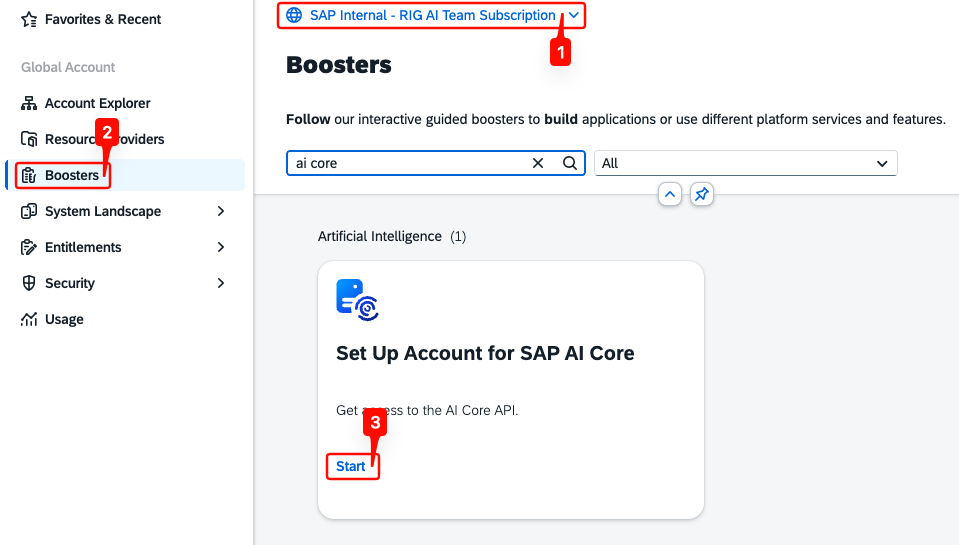
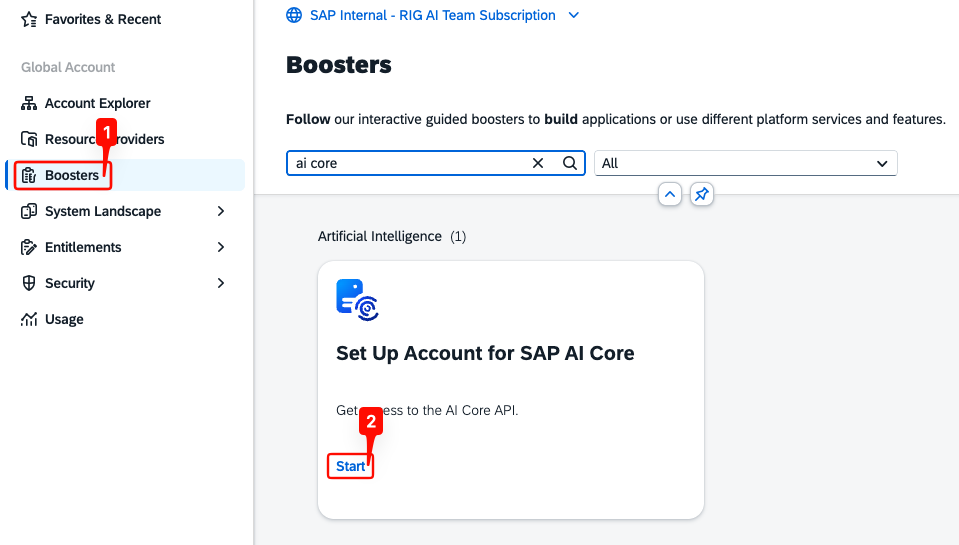
Update documents

Changed region(s): [[0.2722, 0.0, 0.635, 0.1248], [0.0, 0.2183, 0.121, 0.3743], [0.3326, 0.7486, 0.4234, 0.9046]]

diff --git a/docs/SAP-Joule-for-Consultants-Custom-Knowledge/1-introduction/1.2-recommendations.md b/docs/SAP-Joule-for-Consultants-Custom-Knowledge/1-introduction/1.2-recommendations.md
@@ -1,0 +1,25 @@
+## Start with Object Store
+
+Custom Knowledge Grounding can read from any of the [supported data repositories](https://help.sap.com/docs/sap-ai-core/generative-ai/grounding-035c455a5a424697b60f4a24b6d791fe#data-repositories). For the **initial setup**, Object Store is the recommended choice:
+
+- **Fast activation** — the Object Store instance is provisioned by a booster and ready in minutes. SharePoint, customer-managed S3, and Work Zone setups often take longer than anticipated because of onboarding complications, approval, and security processes.
+- **Very low cost** — Object Store charges are small. Even when run for a few months until the target data repository is ready, the extra cost is negligible — see [Pricing](https://discovery-center.cloud.sap/serviceCatalog/object-store?service_plan=standard&region=all&commercialModel=btpea&tab=service_plan).
+- **Reversible** — once the target data repository is online and indexed, point Custom Knowledge Grounding at the new pipeline and decommission the Object Store instance.
+
+The key advantage is that Custom Knowledge Grounding can be live in SAP Joule for Consultants while the longer-running setup of your target data repository runs in parallel — instead of blocking the entire rollout on it.
+
+> **Note:** The Object Store instance must be provisioned in an AWS-based subaccount, since AI Core Document Grounding consumes it through the AWS S3 API.
+
+> **Note:** Source citations from Object Store-indexed documents are not clickable — they show the document name and page reference, but the link does not resolve to the original file. Answers themselves are generated the same way as with any other data repository.
+
+## Skip Object Store If the Credentials Are Available
+
+Going straight to your target data repository is the better choice when you already hold the credentials required by AI Core Document Grounding — for example, for a SharePoint site, an S3 bucket, or a Work Zone with Document Grounding enabled — and have completed an AI Core Document Grounding setup before. In that case, you can skip the **Data Repositories** phase and start directly with the **AI Core Document Grounding** phase.
+
+## Subaccount Layout and Existing Instances
+
+The four moving parts — **Object Store** (or any other data repository), **SAP AI Core**, **Destination Service**, and **SAP Joule for Consultants** — communicate through service-key credentials, which allows for very flexible placement: they can all sit in the same subaccount, in different subaccounts, or even in different global accounts.
+
+- **Reuse existing instances** where available. If your organization already runs SAP AI Core (with the `extended` plan) or SAP AI Launchpad in another subaccount, you can reuse them instead of provisioning new instances.
+- The **Destination Service** can be deployed in the SAP Joule for Consultants subaccount or in the AI Core subaccount. In general, it is recommended to place it in the same subaccount as the consuming application—in this case, the SAP Joule for Consultants subaccount.
+- The **Object Store** must live in an AWS-based subaccount (see above). The SAP Joule for Consultants subaccount is a convenient option, since it runs on AWS data centers.

diff --git a/docs/SAP-Joule-for-Consultants-Custom-Knowledge/3-ai-core-document-grounding/3.3-ai-core-document-grounding-bruno.md b/docs/SAP-Joule-for-Consultants-Custom-Knowledge/3-ai-core-document-grounding/3.3-ai-core-document-grounding-bruno.md
@@ -76,6 +76,24 @@ The generic secret stores the S3 credentials inside AI Core so that the document
 
 The pipeline binds the generic secret to a document grounding job. Once created, AI Core ingests, chunks, embeds, and indexes every document in the bucket.
 
+> **Note:** The full pipeline API is documented in [Create a Document Grounding Pipeline Using the Pipelines API | SAP Help Portal](https://help.sap.com/docs/sap-ai-core/generative-ai/create-document-grounding-pipeline-using-pipelines-api-d32b1465461149749b00129c02e05142). There you can find information on how to restrict processing to specific folders, include metadata, and configure the update schedule.
+
+A request body that limits indexing to a folder inside the bucket looks like this:
+
+```json
+{
+  "type": "S3",
+  "configuration": {
+    "destination": "{{generic_secret}}",
+    "includePaths": [
+      "/j4c-custom-knowledge"
+    ]
+  }
+}
+```
+
+To run the example above, replace the body in the `create_pipeline` request with the snippet.
+
 - Open the `04_pipeline` folder and select `create_pipeline`.
 - Click **Send**. A `201 Created` response returns the `pipelineId`.
 

diff --git a/docs/SAP-Joule-for-Consultants-Custom-Knowledge/2-data-repositories/2.3-sharepoint.md b/docs/SAP-Joule-for-Consultants-Custom-Knowledge/2-data-repositories/2.3-sharepoint.md
@@ -85,3 +85,17 @@ The Bruno and AI Launchpad cards in the next phase consume the following SharePo
 - `MS_Entra_Application_ID` — **Application (client) ID** from the Overview tab.
 - `MS_Entra_Application_Client_Secret` — the secret value copied from **Certificates & secrets**.
 - `SharePoint_URL` — the full URL of the SharePoint site you granted permission on.
+
+## Troubleshooting
+
+The [Troubleshooting Document Grounding Pipelines | SAP Community](https://community.sap.com/t5/technology-blog-posts-by-sap/troubleshooting-document-grounding-pipelines/ba-p/14227725) blog walks setup failures down in three steps:
+
+- Step 1 — Validate access to the Document Grounding API.
+- Step 2 — Validate SharePoint credentials.
+- Step 3 — Validate pipeline configuration.
+
+Especially noteworthy are the checks for step 3:
+
+- **SharePoint site identifier.** Use the **identifier** from the site URL (e.g., `HR%20Team` for `https://contoso.sharepoint.com/sites/HR%20Team`), not the human-readable site title. Mind the URL encoding.
+- **Include paths.** Match the URL path of the folder you want to ground on, relative to the document library — `/teched`, not `/Shared%20Documents/teched`.
+- **Pipeline created but no documents.** Almost always means the include path is too narrow. Test with no include path first; once replication works, narrow it down.

diff --git a/docs/SAP-Joule-for-Consultants-Custom-Knowledge/3-ai-core-document-grounding/3.2-ai-core-instance.md b/docs/SAP-Joule-for-Consultants-Custom-Knowledge/3-ai-core-document-grounding/3.2-ai-core-instance.md
@@ -1,3 +1,14 @@
+## Verify the AI Core Entitlement
+
+Before running the booster, confirm that the `extended` plan of SAP AI Core is assigned to your global account and added to the target subaccount. The booster will fail if the entitlement is missing at the global account level.
+
+- At the global account level, open **Entitlements** → **Service Assignments**.
+- Search for `SAP AI Core` and confirm the `extended` plan is assigned.
+
+<p align="center">
+  <img src="images/ai-core-entitlement.png" width="80%">
+</p>
+
 ## Launch the AI Core Booster
 
 We shall now execute the AI Core Booster to provision SAP AI Core in your subaccount. The booster automates the entitlement assignment, instance creation, and service key generation for the `extended` plan required by AI Core Document Grounding.

diff --git a/docs/SAP-Joule-for-Consultants-Custom-Knowledge/1-introduction/1.1-overview.md b/docs/SAP-Joule-for-Consultants-Custom-Knowledge/1-introduction/1.1-overview.md
@@ -2,6 +2,11 @@
 
 Custom Knowledge Grounding extends SAP Joule for Consultants with your organization's own documents. The documents are uploaded to a data repository, indexed by SAP AI Core Document Grounding, and retrieved at runtime to ground SAP Joule for Consultants' answers. Users get responses that combine the SAP-curated content SAP Joule for Consultants ships with and their firm's own methodologies, policies, and delivery standards.
 
+<p align="center">
+  <img src="images/solution-diagram.png" width="80%">
+</p>
+
+
 ## Prerequisites
 
 - **SAP Joule for Consultants** — an existing instance. See [Onboarding Guide for SAP Joule for Consultants | SAP Help Portal](https://help.sap.com/docs/joule/serviceguide/provisioning-sap-joule-for-consultants).
@@ -24,5 +29,7 @@ The remaining phases walk through the end-to-end setup:
 
 - **Data Repositories** — pick a supported data repository (e.g., Object Store, Microsoft SharePoint, or SAP Build Work Zone) and upload your documents to it.
 - **AI Core Document Grounding** — provision SAP AI Core with the `extended` plan, then create a pipeline that ingests, chunks, embeds, and indexes the documents.
-- **Connection to Joule for Consultants** — configure a Destination Service instance, then enable Custom Knowledge Grounding in the SAP Joule for Consultants Console and connect it to the pipeline.
+- **Connection to SAP Joule for Consultants** — configure a Destination Service instance, then enable Custom Knowledge Grounding in the SAP Joule for Consultants Console and connect it to the pipeline.
 - **Testing** — verify the setup by asking SAP Joule for Consultants a question whose answer is only available in your uploaded documents.
+
+> **Note:** The next card in this phase, **Recommendations**, covers data repository choice and subaccount layout.

diff --git a/docs/SAP-Joule-for-Consultants-Custom-Knowledge/4-connection-to-j4c/4.2-admin-console-configuration.md b/docs/SAP-Joule-for-Consultants-Custom-Knowledge/4-connection-to-j4c/4.2-admin-console-configuration.md
@@ -56,11 +56,13 @@ The three action icons in the top-right corner of the page are:
 
 - **Pencil** — configure document grounding instances (connect or disconnect sources).
 - **Bin** — delete the selected source.
-- **Refresh** — trigger a manual re-sync of pipeline data.
+- **Refresh** — re-read the pipeline metadata from AI Core Document Grounding and update what the console shows (status, last sync timestamp, document count).
 
 > **Note:** Once the pipeline **Status** shows **Completed**, SAP Joule for Consultants references the grounded knowledge starting with the next new conversation.
 
 > **Note:** If the status shows **Completed With Errors**, some documents were not ingested successfully by the document grounding pipeline. Only successfully processed documents are used in answers. For details, check the documents in Bruno or in the SAP AI Launchpad. For support, please open a ticket under component `CA-ML-RAGE` — troubleshooting the AI Core Document Grounding pipeline is out of scope for SAP Joule for Consultants.
+
+> **Note:** The **Refresh** icon in the console only refreshes the **view** — it does **not** re-index your data repository. Whether newly uploaded documents become available to SAP Joule for Consultants is decided by re-running the AI Core Document Grounding pipeline itself: the `restart_pipeline` request in the Bruno card, or the **Synchronize** icon on the pipeline page in SAP AI Launchpad. Until that pipeline run reaches `FINISHED` / `Completed`, the new documents are not indexed.
 
 ## Troubleshooting
 

diff --git a/docs/SAP-Joule-for-Consultants-Custom-Knowledge/3-ai-core-document-grounding/3.1-ai-core-document-grounding-overview.md b/docs/SAP-Joule-for-Consultants-Custom-Knowledge/3-ai-core-document-grounding/3.1-ai-core-document-grounding-overview.md
@@ -2,6 +2,8 @@
 
 SAP AI Core Document Grounding reads documents from a data repository, chunks them, generates embeddings, and stores them in a vector index. SAP Joule for Consultants queries that index at runtime to ground its answers in your organization's own content.
 
+> **Note:** For a conceptual introduction to what happens inside that pipeline — vector embeddings, the SAP HANA Cloud vector engine, and how data ingestion, orchestration, and retrieval fit together in the Generative AI Hub — see the [Analyzing Document Grounding in Generative AI Hub | SAP Learning](https://learning.sap.com/courses/using-advance-ai-techniques-with-sap-s-generative-ai-hub/analyzing-document-grounding-in-generative-ai-hub) lesson. It is theoretical background, not setup instructions, and complements the hands-on cards that follow.
+
 ## What the Rest of This Phase Covers
 
 The next cards walk through the setup of SAP AI Core Document Grounding. The instructions in both the Bruno and AI Launchpad cards use the Object Store as the example data repository:

diff --git a/docs/SAP-Joule-for-Consultants-Custom-Knowledge/4-connection-to-j4c/4.1-destination-service-setup.md b/docs/SAP-Joule-for-Consultants-Custom-Knowledge/4-connection-to-j4c/4.1-destination-service-setup.md
@@ -18,7 +18,7 @@ A Destination Service connects AI Core Document Grounding to SAP Joule for Consu
 </p>
 
 - Download the service key — you'll need it later to connect SAP Joule for Consultants.
-- Then click the blue instance name to open the instance and configure its destinations.
+- Then open the instance to configure its destinations — either click the blue instance name in the **Instances** list, or click **Manage Instance** at the top of the details panel on the right. Both navigate to the same instance page.
 
 > **Note:** Destinations can be configured either at the instance level or at the subaccount level. This setup uses the instance level. Do not configure the destination at the subaccount level.
 